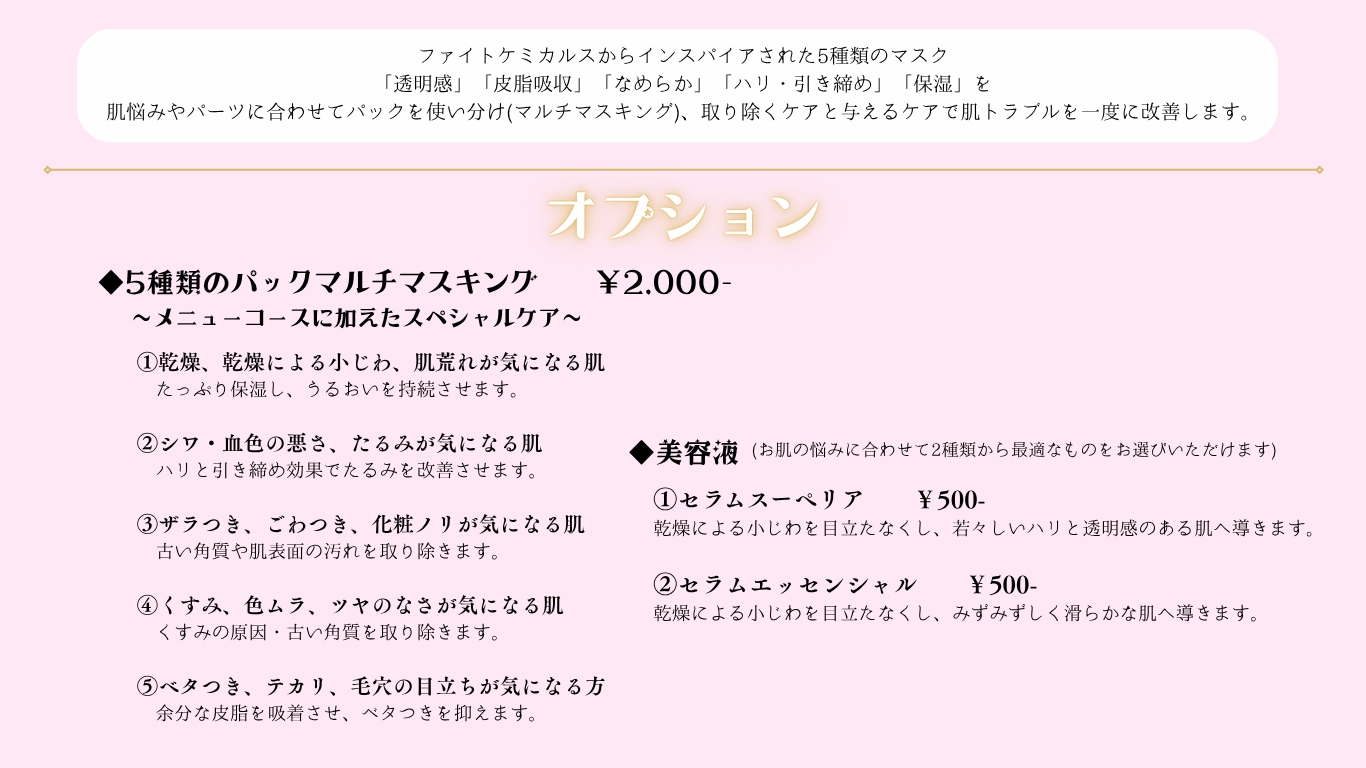
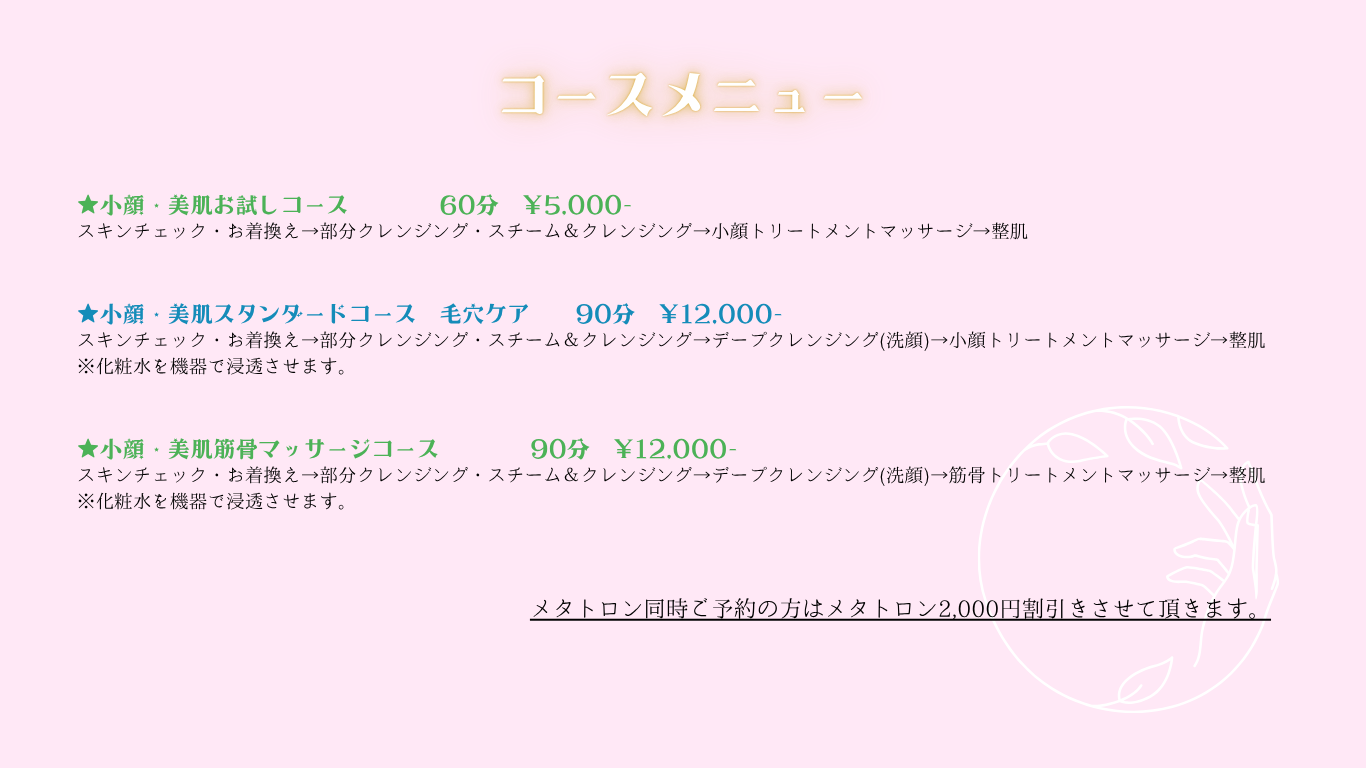
feat: エステページ(/esthe)を新規作成
既存の静的ページと同じ流儀で追加:
  - routes.rb に get "esthe" => "main#esthe"
  - MainController#esthe（空アクション。layout 'main/main' はクラス冒頭で指定済み）
  - app/views/main/esthe.html.erb

画像は連番のまま置かれていたため正式名にリネームした（内容は同一、git も
rename として記録）。コード上の参照が無いことを確認済み:
  12.png -> esthe_facial_flow.png
  14.png -> esthe_mask_option.png
  15.png -> esthe_body_intro.png
  16.png -> esthe_body_hip_leg.png
  17.png -> esthe_body_leg_arm_hand.png

13.png はコースメニューの画像版だが、料金改定のたびに画像を作り直す手間を
避けるため本文をテキストで実装している。未使用だが素材として残す。

画像幅は /price_plan と同じ max-width: 1200px 方式。20%パディング方式だと
1366px 画面で 820px 程度まで縮み、細かい文字の判読性が落ちるため。

トップのボタンは esthe_button.png が未配置のため今回は入れず、
設置箇所にコメントのみ残した。

diff --git a/config/routes.rb b/config/routes.rb
@@ -15,6 +15,7 @@ Rails.application.routes.draw do
    root "main#top"
    # root "main#top_mente"
    get "about_metatron" => "main#about_metatron"
+   get "esthe" => "main#esthe"
    get "intestinal" => "main#intestinal"
    get "price_plan" => "main#price_plan"
    get "price_plan_coupon" => "main#price_plan_coupon"

diff --git a/app/controllers/main_controller.rb b/app/controllers/main_controller.rb
@@ -13,6 +13,9 @@ class MainController < ApplicationController
   def about_metatron
     logger.debug("=========== about_metatron")
   end
+
+  def esthe
+  end
   
   def price_plan_admin
     logger.debug("=========== price_plan_admin")
